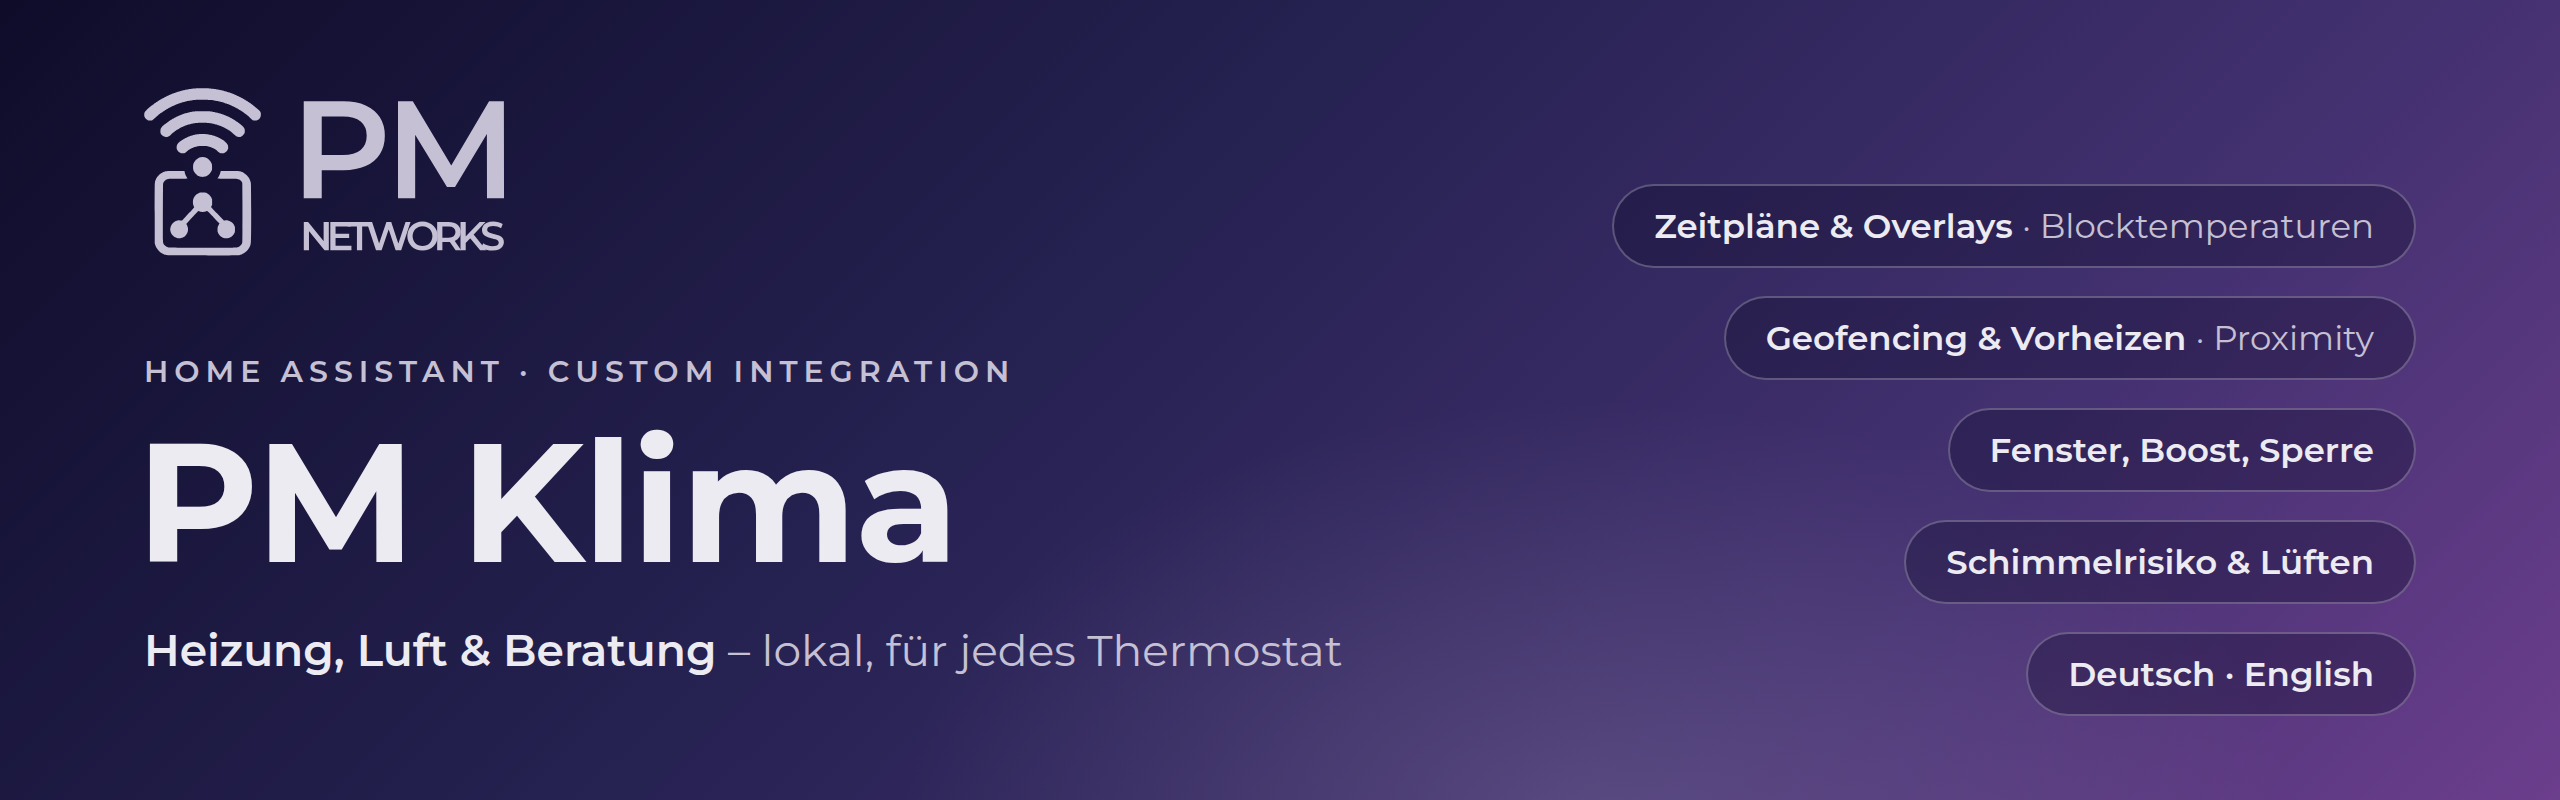
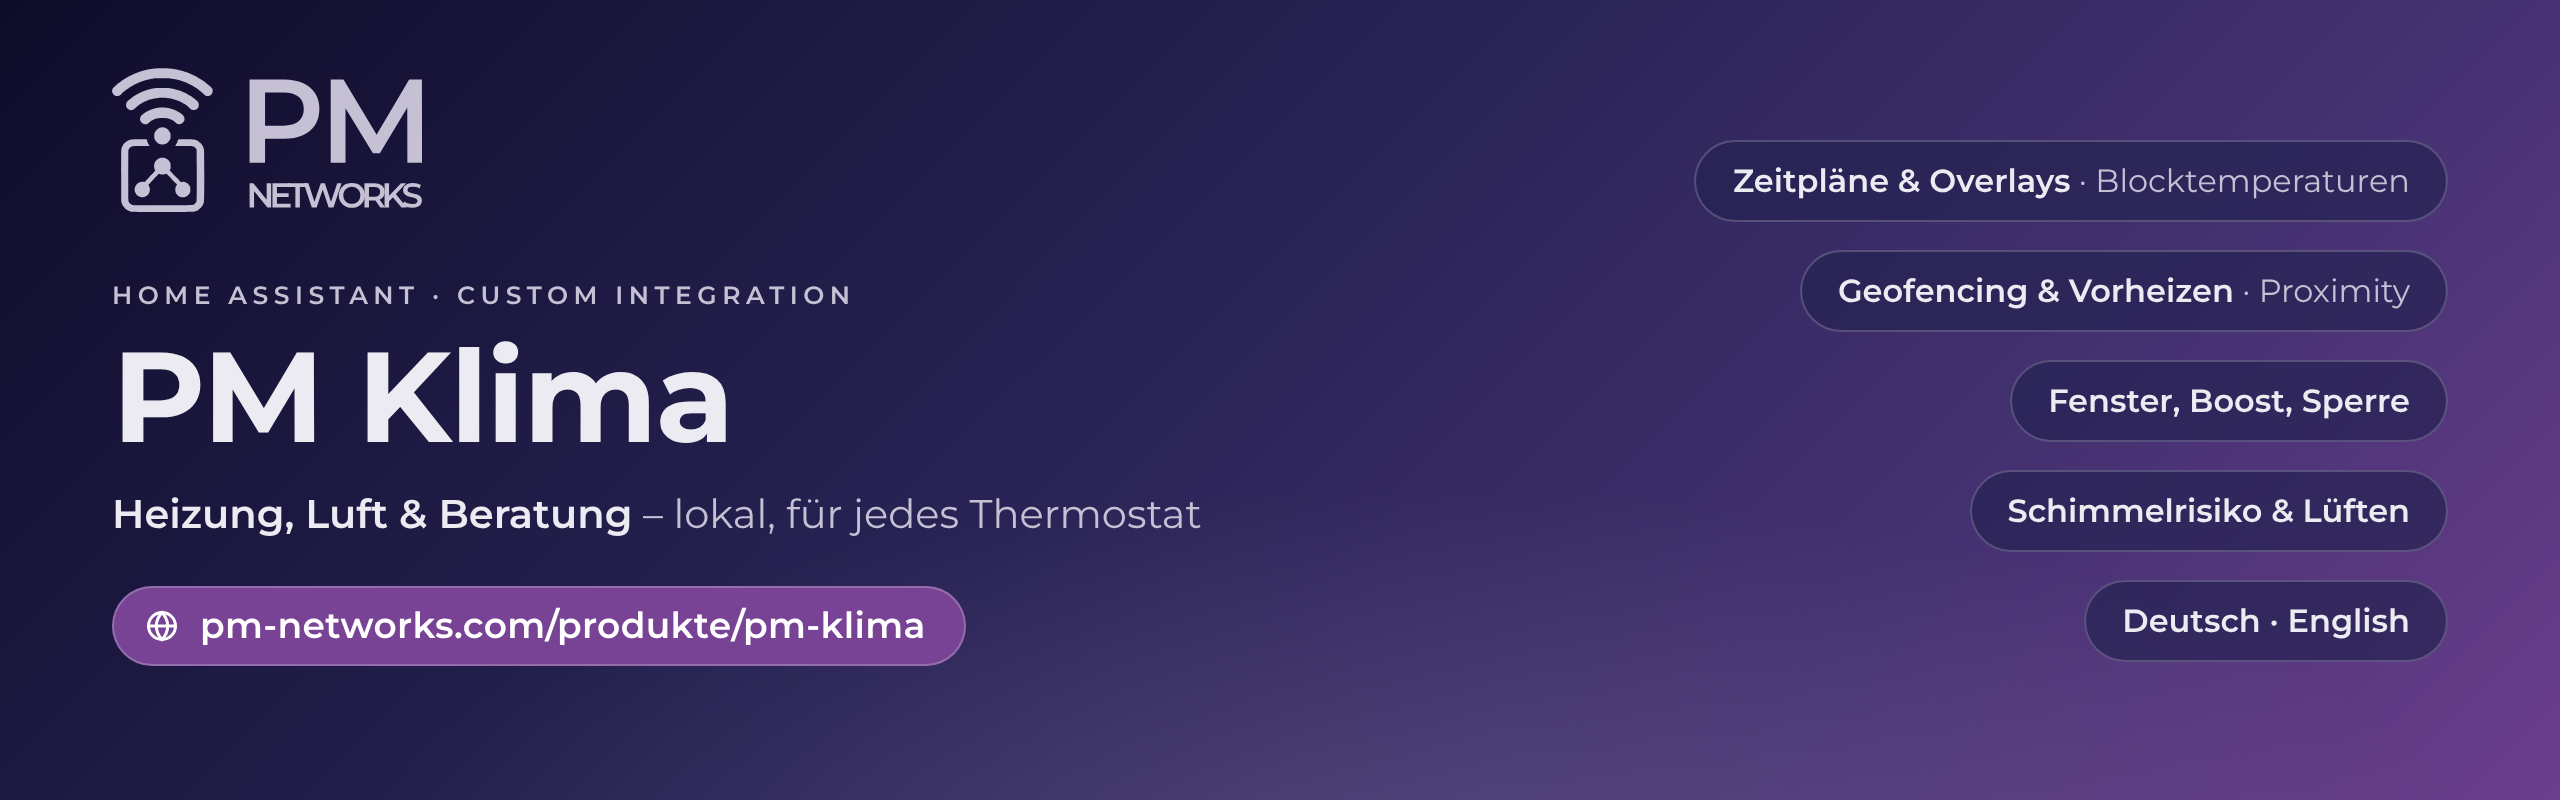
Website pm-networks.com prominent verlinken
Titelbanner im PM-Networks-Design mit Website-Verweis, Website-Badge,
Hinweis auf die Produktseite unter der Einleitung und Fußzeile.

Claude-Session: https://claude.ai/code/session_01LwKkf8NKv3gzvRmNLeXi4A

Changed region(s): [[0.625, 0.1562, 0.9688, 0.9062], [0.0312, 0.4375, 0.5312, 0.8438], [0.0312, 0.0938, 0.3438, 0.375]]

diff --git a/README.md b/README.md
@@ -1,8 +1,9 @@
 <p align="center">
-  <img src="docs/bilder/banner.png" alt="PM Klima – Heizung, Luft &amp; Beratung für Home Assistant" width="100%">
+  <a href="https://pm-networks.com/produkte/pm-klima/"><img src="docs/bilder/banner.png" alt="PM Klima – Heizung, Luft &amp; Beratung für Home Assistant" width="100%"></a>
 </p>
 
 <p align="center">
+  <a href="https://pm-networks.com"><img src="https://img.shields.io/badge/Website-pm--networks.com-784295.svg?style=flat" alt="Website pm-networks.com"></a>
   <a href="https://hacs.xyz"><img src="https://img.shields.io/badge/HACS-Integration-41BDF5.svg" alt="HACS Integration"></a>
   <img src="https://img.shields.io/badge/Home%20Assistant-2026.2%2B-18BCF2.svg" alt="Home Assistant 2026.2+">
   <img src="https://img.shields.io/badge/Version-2.1.2-784295.svg" alt="Version 2.1.2">
@@ -22,6 +23,8 @@ Thermostat.** Zeitpläne mit Blocktemperaturen, manuelle Overlays, Abwesenheit u
 Geofencing, Fenstererkennung, Boost und Sommerbetrieb. Dazu ein Luftmodul mit Schimmelrisiko und
 Lüftempfehlung sowie eine Beratung, die sich zurückhaltend per Push, Sprachansage oder Wanddisplay
 meldet.
+
+> **Produktseite, Neuigkeiten und Kontakt:** [pm-networks.com/produkte/pm-klima](https://pm-networks.com/produkte/pm-klima/)
 
 ![Beispiel-Dashboard](docs/bilder/dashboard.png)
 
@@ -98,3 +101,5 @@ the screenshots and YAML examples are language-independent.
 
 <sub>PM Klima ist ein Projekt von PM Networks und steht in keiner Verbindung zu tado GmbH oder zu
 anderen Herstellern. Alle Screenshots stammen aus einer Demo-Instanz mit Beispieldaten.</sub>
+
+<p align="center"><a href="https://pm-networks.com"><b>pm-networks.com</b></a> · <sub>© 2026 PM Networks</sub></p>
